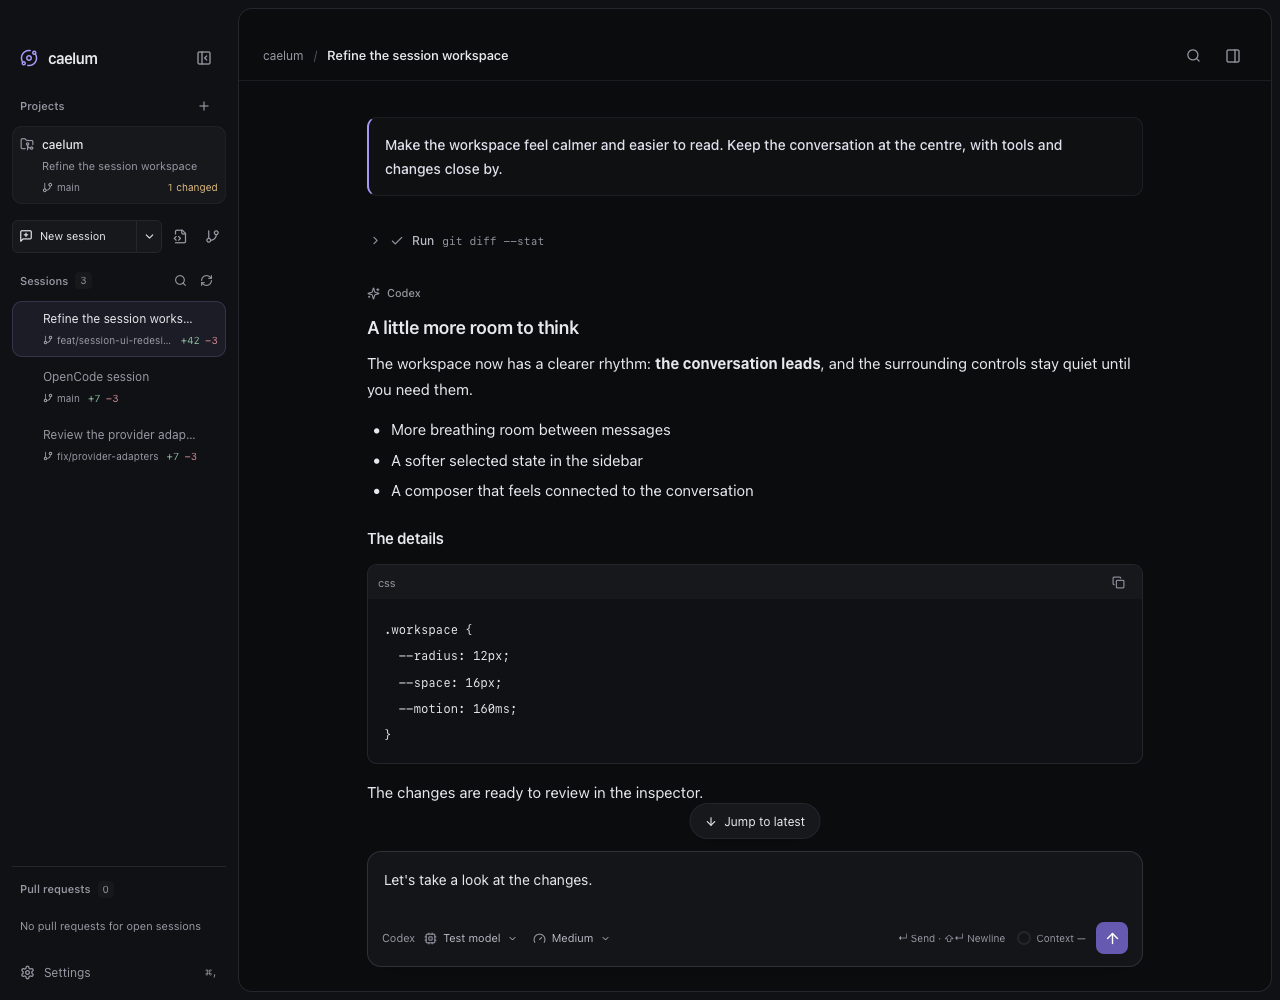
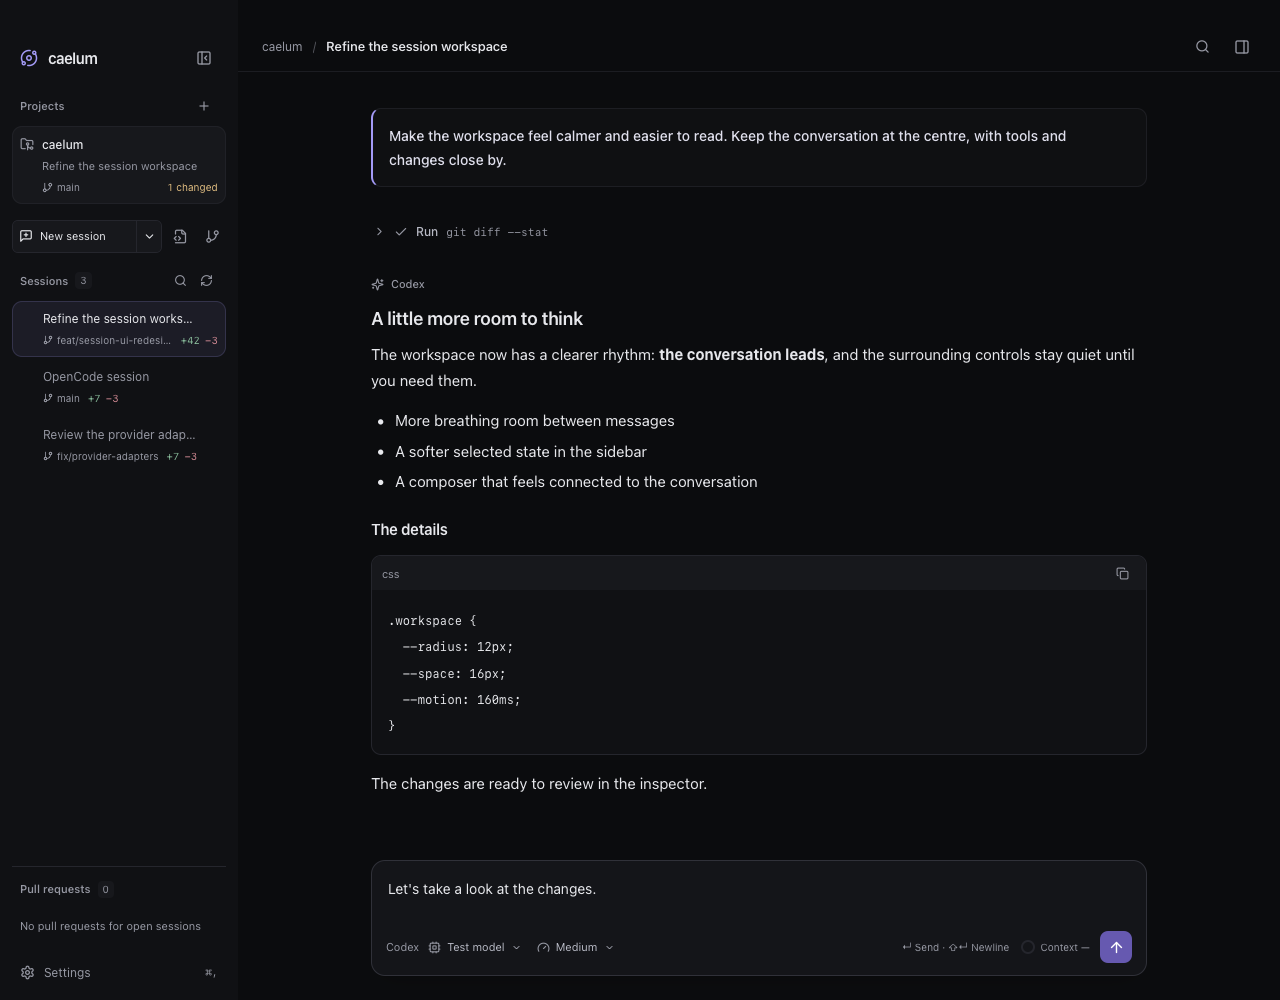
style(desktop): remove the outer workspace frame

diff --git a/apps/desktop/src/ui/styles/styles.css b/apps/desktop/src/ui/styles/styles.css
@@ -268,7 +268,7 @@ kbd { color: var(--muted); font: 10px ui-monospace, SFMono-Regular, Menlo, monos
 .disconnected-dot { background: var(--danger); }
 .approval-indicator { color: var(--warning) !important; }
 .approval-shortcut { display: flex; align-items: center; gap: 5px; padding: 4px 7px; color: var(--warning); font-size: 11px; }
-.main-panel { display: flex; min-width: 0; min-height: 0; flex: 1; flex-direction: column; margin: 8px 8px 8px 0; overflow: hidden; border: 1px solid var(--border); border-radius: var(--radius-panel); background: var(--bg); }
+.main-panel { display: flex; min-width: 0; min-height: 0; flex: 1; flex-direction: column; overflow: hidden; background: var(--bg); }
 .topbar { display: flex; flex: 0 0 auto; min-height: 52px; align-items: center; justify-content: space-between; gap: 20px; padding: 0 24px; border-bottom: 1px solid var(--border-subtle); }
 .breadcrumbs { display: flex; min-width: 0; align-items: center; gap: 10px; font-size: 12px; color: var(--muted); }
 .breadcrumbs > span:first-of-type { max-width: 200px; overflow: hidden; white-space: nowrap; text-overflow: ellipsis; flex-shrink: 0; }

diff --git a/apps/rune-prototype/src/main.rs b/apps/rune-prototype/src/main.rs
@@ -432,6 +432,11 @@ fn view(s: &Workspace, cx: &mut Cx<Workspace>) -> El {
             .build(&k)
             .key("inspector-toggle"),
         );
+    // SplitView's card styling is theme-driven. Keep the shell flush while
+    // retaining rounded controls and composer surfaces inside the panes.
+    let mut shell_kit = k.clone();
+    shell_kit.radius.lg = 0.0;
+    shell_kit.c.border_muted = k.c.bg_base;
     SplitView::new(main)
         .sidebar(
             &s.sidebar,
@@ -445,13 +450,13 @@ fn view(s: &Workspace, cx: &mut Cx<Workspace>) -> El {
         )
         .toolbar(toolbar)
         .titlebar_inset(cx.titlebar_inset())
-        .frame_inset(8.0)
+        .frame_inset(0.0)
         .toolbar_in_panel()
         .sidebar_padding(12.0, 12.0)
         .sidebar_toggle(SidebarToggle::new().in_header())
         .pane_motion(PaneMotion::new().spring(Spring::new(0.22, 0.0)))
         .reduced_motion(cx.is_reduced_motion())
-        .build(&k)
+        .build(&shell_kit)
 }
 
 fn on_key(s: &mut Workspace, ev: &KeyEvent, _: &mut Tx) -> bool {
@@ -498,7 +503,7 @@ fn main() {
     rune::App::new(spec())
         .chrome(Chrome {
             full_size_content: true,
-            traffic_lights: Some((16.0, 25.0)),
+            traffic_lights: Some((16.0, 17.0)),
             drag_regions: true,
         })
         .run();

diff --git a/docs/design/README.md b/docs/design/README.md
@@ -1,6 +1,6 @@
 # Workspace polish and Rune comparison
 
-The Tauri workspace now uses a framed main surface, softer sidebar selection, roomier message typography and a rounded composer. Shared radius and motion tokens keep the controls consistent; colour transitions respect reduced motion.
+The Tauri workspace uses a flush main surface, softer sidebar selection, roomier message typography and a rounded composer. Shared radius and motion tokens keep the controls consistent; colour transitions respect reduced motion.
 
 The [Rune prototype](../../apps/rune-prototype/) explores the same workspace with native text editing, animated split panes and Rune's Markdown and diff components. Both previews load the conversation, command output, draft and patch from [`workspace.json`](workspace.json).
 
@@ -13,7 +13,7 @@ Captured on macOS at 1280 × 1000, with one output pixel per point. Rune uses bu
 | Dark workspace | ![React dark workspace](previews/react-dark.png) | ![Rune dark workspace](previews/rune-dark.png) |
 | Light changes inspector | ![React light changes inspector](previews/react-light-inspector.png) | ![Rune light changes inspector](previews/rune-light-inspector.png) |
 
-The framed conversation and quieter controls work in both renderers. Rune's toolbar is more compact, its inspector sits beside the framed conversation, and its diff view has interactive line selection and unified/split modes. Use the running apps to judge typing, scrolling and pane motion.
+Both renderers use a flush conversation surface and quieter controls. Rune's toolbar is more compact, its inspector sits beside the conversation, and its diff view has interactive line selection and unified/split modes. Use the running apps to judge typing, scrolling and pane motion.
 
 ## Motion in Tauri
 
